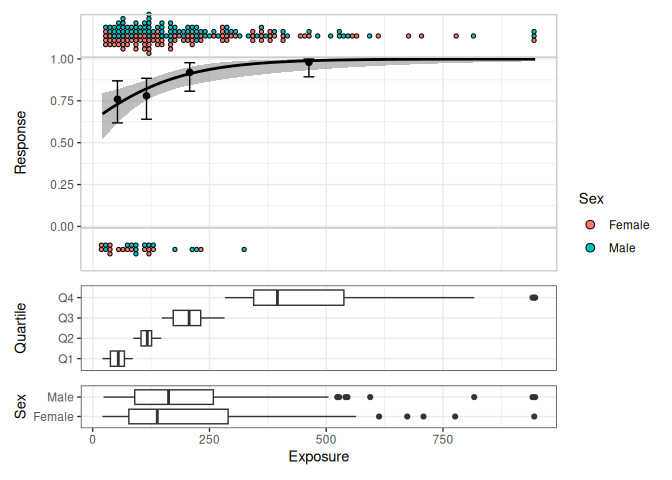
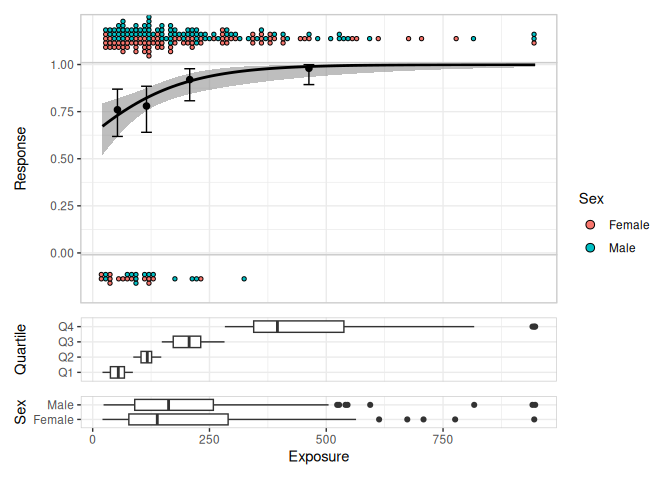
consistency in panel borders

diff --git a/README.md b/README.md
@@ -84,7 +84,7 @@ lr_data |>
   lr_plot_add_strips(color_by = sex) |> 
   lr_plot_add_boxplot(group_by = quartile) |> 
   lr_plot_add_boxplot(group_by = sex) |> 
-  print(box_height = 3)
+  print(box_height = 2)
 #> Warning: annotation$theme is not a valid theme.
 #> Please use `theme()` to construct themes.
 ```
